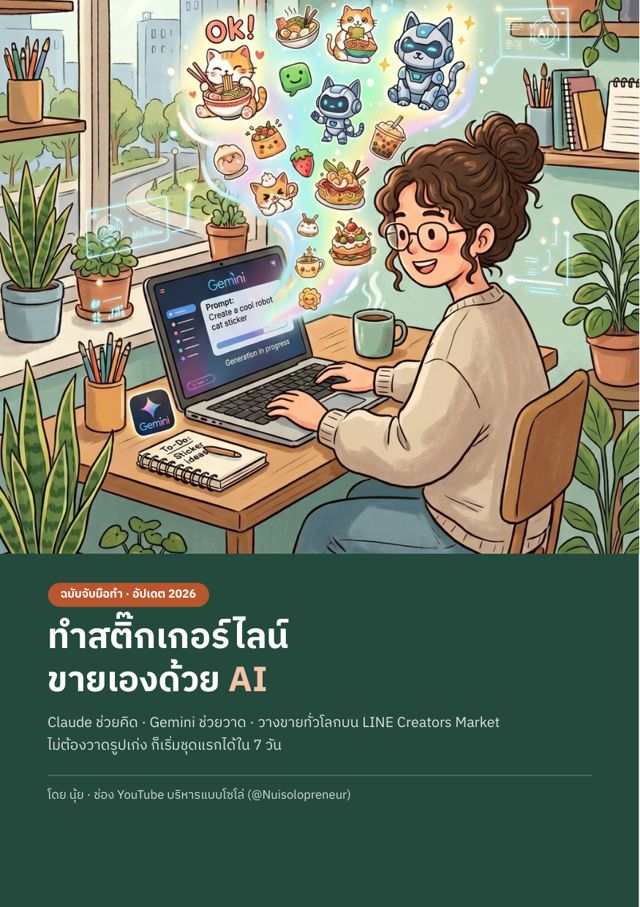
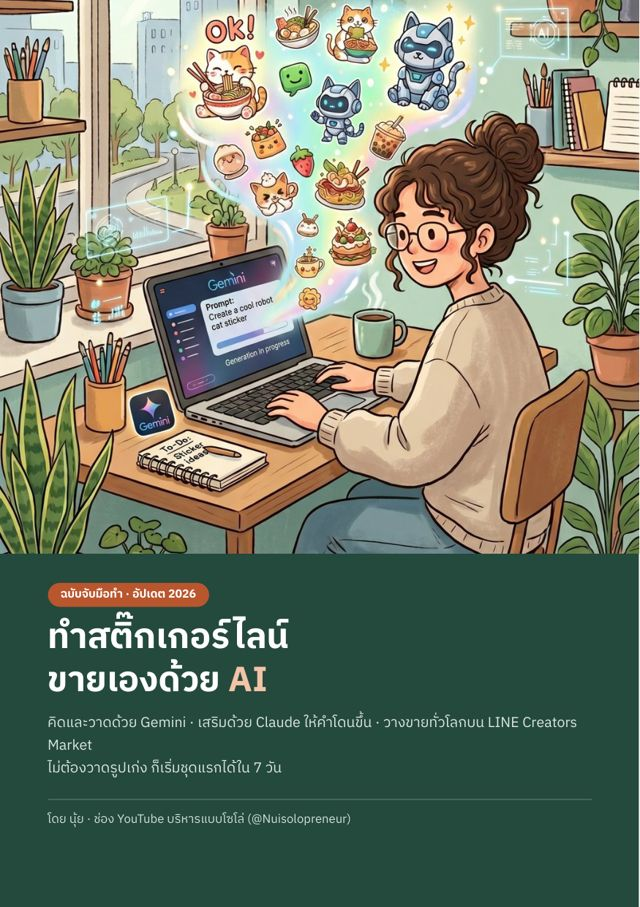
Update sticker page: Gemini main path, Claude optional

Changed region(s): [[0.0625, 0.7718, 0.9062, 0.9261]]

diff --git a/sticker/index.html b/sticker/index.html
@@ -179,10 +179,10 @@
   <section class="tint">
     <div class="wrap">
       <div class="kicker">วิธีของเล่มนี้</div>
-      <h2>แยกห้องคิด กับ ห้องวาด งานนิ่งขึ้นมาก</h2>
+      <h2>กฎ 2 แชท: แยกแชทคิดคำ กับ แชทวาดรูป งานนิ่งขึ้นมาก</h2>
       <div class="duo">
-        <div><span class="tag">ห้องคิด</span><h3>Claude</h3><p>ช่วยหาคอนเซปต์ คิดคำพูด 40 คำ ตรวจกฎของ LINE และเขียนคำสั่งวาดภาษาอังกฤษให้</p></div>
-        <div><span class="tag o">ห้องวาด</span><h3>Gemini</h3><p>วาดตัวละครทีละภาพ พร้อมเทคนิคคุมหน้าตัวละครไม่ให้เปลี่ยนไปมา</p></div>
+        <div><span class="tag">ทางหลัก</span><h3>Gemini 2 แชท</h3><p>แชทที่ 1 คิดคอนเซปต์ คำพูด 40 คำ ตรวจกฎ เขียนคำสั่งวาด · แชทที่ 2 วาดตัวละครทีละภาพ ใช้แอปเดียว เริ่มฟรี</p></div>
+        <div><span class="tag o">ทางเสริม</span><h3>Claude ช่วยคิดคำ</h3><p>อยากได้คำพูดไทยที่โดนขึ้น ใช้ Claude เป็นแชทคิดคำแทน ตรวจกฎละเอียดกว่า แล้วไปวาดใน Gemini เหมือนเดิม</p></div>
         <div><span class="tag">แต่งภาพ</span><h3>Canva หรือ Photopea</h3><p>ตัดพื้นหลัง ใส่คำ ส่งออก PNG ตามขนาดของ LINE มีทางเลือกฟรีให้ด้วย</p></div>
       </div>
     </div>
@@ -195,8 +195,8 @@
       <ol class="chapters">
         <li><div><b>เปิดร้านบน LINE Creators Market</b><small>สมัครฟรีใน 5 ขั้น</small></div></li>
         <li><div><b>วางคอนเซปต์ให้ขายได้</b><small>เริ่มจากความอึดอัดใจของคนส่ง สูตรคำ 50/30/20</small></div></li>
-        <li class="new"><div><b>ให้ Claude ช่วยคิด <em>ใหม่</em></b><small>คำสั่งสัมภาษณ์ คำพูด 40 คำ บัตรตัวละคร</small></div></li>
-        <li><div><b>ให้ Gemini ช่วยวาด</b><small>สูตรคำสั่ง 5 ช่อง คุมหน้าตัวละคร</small></div></li>
+        <li class="new"><div><b>แชทคิดคำ <em>ใหม่</em></b><small>คำสั่งสัมภาษณ์ คำพูด 40 คำ บัตรตัวละคร · ใช้ได้ทั้ง Gemini และ Claude</small></div></li>
+        <li><div><b>แชทวาดรูป: ให้ Gemini วาด</b><small>สูตรคำสั่ง 5 ช่อง คุมหน้าตัวละคร</small></div></li>
         <li><div><b>แต่งภาพและเตรียมไฟล์</b><small>ขนาดไฟล์ตามกติกา LINE ล่าสุด</small></div></li>
         <li><div><b>กฎตรวจผ่าน</b><small>เรื่องที่ทำให้โดนตีกลับ ทำด้วย AI ต้องรู้อะไร</small></div></li>
         <li><div><b>อัปโหลด ตั้งราคา ส่งตรวจ วางขาย</b><small>7 ขั้นพร้อมภาพหน้าจอ + เคล็ดลับสมัครแคมเปญ</small></div></li>
@@ -204,10 +204,10 @@
         <li class="new"><div><b>แผน 7 วัน ทำชุดแรกให้เสร็จ <em>ใหม่</em></b><small>วันละ 1–2 ชั่วโมง วันที่ 7 กดส่งตรวจ</small></div></li>
       </ol>
       <div class="extras">
-        <span>เช็กลิสต์ก่อนส่ง 15 ข้อ</span><span>คลังคำสั่ง 12 ข้อ</span><span>ตัวเลขจากเว็บ LINE ทางการ</span><span>ทางเลือกฟรีทุกขั้น</span>
+        <span>เช็กลิสต์ก่อนส่ง 15 ข้อ</span><span>คลังคำสั่ง 12 ข้อ + ไฟล์ .txt ก๊อปได้</span><span>ตัวเลขจากเว็บ LINE ทางการ</span><span>ทางเลือกฟรีทุกขั้น</span>
       </div>
       <div class="samples">
-        <figure><img src="sample-1.jpg" alt="ตัวอย่างหน้า: คำสั่งให้ Claude สัมภาษณ์เพื่อหาคอนเซปต์" loading="lazy"><figcaption>คำสั่งให้ Claude ช่วยคิด</figcaption></figure>
+        <figure><img src="sample-1.jpg" alt="ตัวอย่างหน้า: คำสั่งให้ AI สัมภาษณ์เพื่อหาคอนเซปต์" loading="lazy"><figcaption>คำสั่งให้ AI สัมภาษณ์หาคอนเซปต์</figcaption></figure>
         <figure><img src="sample-2.jpg" alt="ตัวอย่างหน้า: ขนาดไฟล์ตามกติกา LINE" loading="lazy"><figcaption>ขนาดไฟล์ตามกติกา LINE</figcaption></figure>
         <figure><img src="sample-3.jpg" alt="ตัวอย่างหน้า: เช็กลิสต์ 15 ข้อก่อนกดส่งตรวจ" loading="lazy"><figcaption>เช็กลิสต์ก่อนกดส่ง</figcaption></figure>
       </div>
